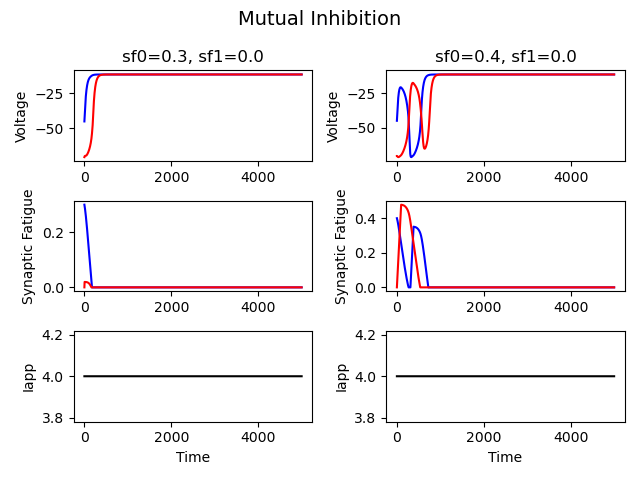
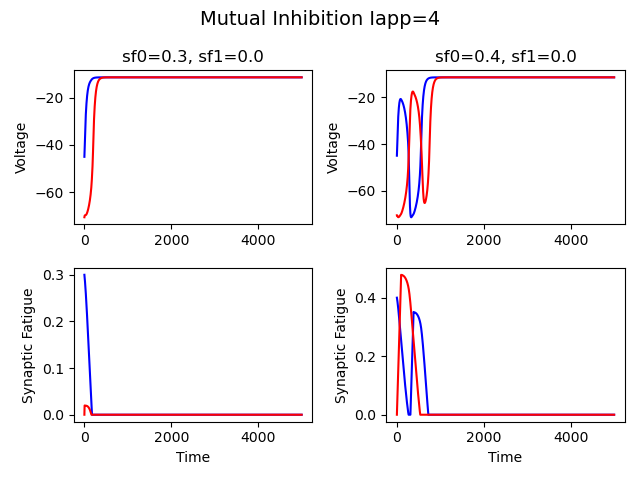
fixed some media related things

diff --git a/tests/test_two_inh.py b/tests/test_two_inh.py
@@ -126,5 +126,5 @@ def run(Iapp=3, V0=-45.0, first_start=0.3, second_start=0.4, save=True):
 
 if __name__ == "__main__":
     run(Iapp=2)
-    run()
     run(Iapp=3)
+    run(Iapp=4)
